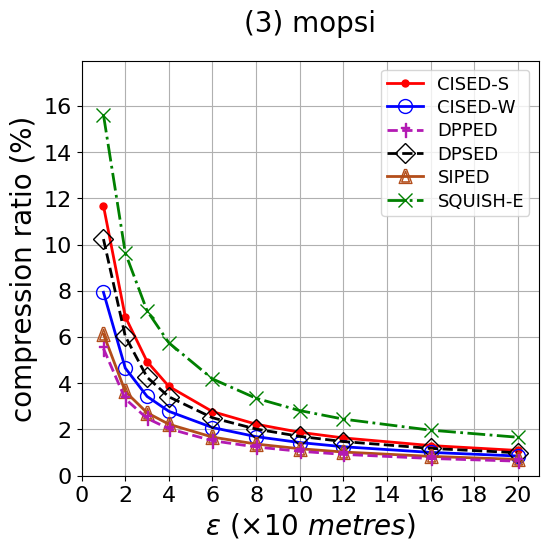
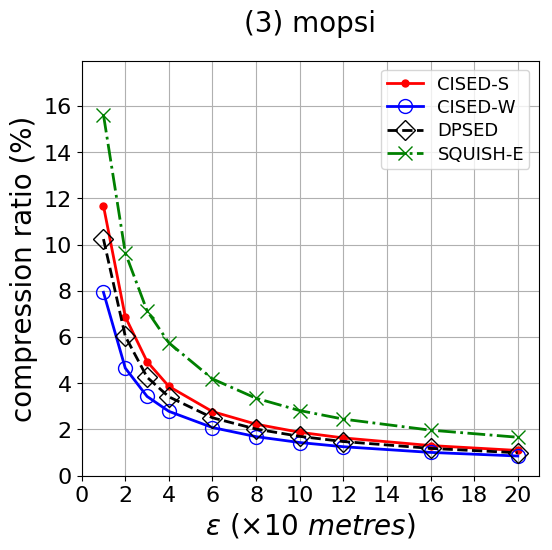
update figures

Changed region(s): [[0.6775, 0.2164, 0.9547, 0.4018], [0.154, 0.5873, 0.9547, 0.8655]]

diff --git a/traj_conei3d/sec-exp.tex b/traj_conei3d/sec-exp.tex
@@ -115,6 +115,20 @@ Here ``R'' denotes our fast regular polygon intersection algorithm \rpia, and ``
 
 \begin{figure*}[tb!]
 \centering
+\includegraphics[scale = 0.290]{Figures/Exp-CR-epsilon-ped-service.png}\hspace{1ex}
+\includegraphics[scale = 0.290]{Figures/Exp-CR-epsilon-ped-geolife.png}\hspace{1ex}
+\includegraphics[scale = 0.290]{Figures/Exp-CR-epsilon-ped-mopsi.png}\hspace{1ex}
+\includegraphics[scale = 0.290]{Figures/Exp-CR-epsilon-ped-private.png}
+%\vspace{-1ex}
+\caption{\small Evaluation of compression ratios: fixed with $m=16$ and varying
+  error bound $\epsilon$(compare ped with sed).}
+\label{fig:cr-m16-ped}
+%\vspace{-1.0ex}
+\end{figure*}
+
+
+\begin{figure*}[tb!]
+\centering
 \includegraphics[scale = 0.290]{Figures/Exp-opt-CR-epsilon-service.png}\hspace{1ex}
 \includegraphics[scale = 0.290]{Figures/Exp-opt-CR-epsilon-geolife.png}\hspace{1ex}
 \includegraphics[scale = 0.290]{Figures/Exp-opt-CR-epsilon-mopsi.png}\hspace{1ex}
@@ -215,6 +229,15 @@ The results are reported in Figure~\ref{fig:cr-size}.
 
 \textcolor{red}{Jiangjh: four lines: DP-PED, DP-SED, CISED, Sleeve}
 
+ Given the same error bound $\epsilon$, the compression ratios of algorithms using \ped are obviously better
+than using \sed.
+More specifically, the compression ratios of algorithms \dpa 
+using \ped are on average ($47.1\%$, $55.5\%$, $60.7\%$, $44.7\%$) of algorithm \dpa using \sed and
+the compression ratio of algorithm \cist is on average
+($45.4\%$, $54.5\%$, $60.1\%$, $43.0\%$) of algorithm \cia  on datasets (\sercar, \geolife, \mopsi, \pricar), respectively.
+	
+
+
 
 %%%%%%%%%%%%%%%%%%%%%%%%%%%%%%%%%%%%%%%%%%%%%%%%%%%%%%%%%%%%%%%%%%%%%%%%%%%%%%
 \subsubsection{Evaluation of Average Errors}
@@ -250,6 +273,21 @@ Here ``R'' denotes our fast regular polygon intersection algorithm \rpia, and ``
 	\label{fig:ae-m16}
 	%\vspace{-1ex}
 \end{figure*}
+
+\begin{figure*}[tb]
+	\centering
+	\includegraphics[scale = 0.2900]{Figures/Exp-error-epsilon-ped-service.png}\hspace{1ex}
+	\includegraphics[scale = 0.2900]{Figures/Exp-error-epsilon-ped-geolife.png}\hspace{1ex}
+	\includegraphics[scale = 0.2900]{Figures/Exp-error-epsilon-ped-mopsi.png}\hspace{1ex}
+	\includegraphics[scale = 0.2900]{Figures/Exp-error-epsilon-ped-private.png}
+	%\vspace{-1ex}
+	\caption{\small Evaluation of average errors: fixed with $m=16$ and varying
+    error bound $\epsilon$(compare ped with sed).}
+	\label{fig:ae-m16-ped}
+	%\vspace{-1ex}
+\end{figure*}
+
+
 
 \begin{figure*}[tb]
 	\centering
@@ -364,6 +402,15 @@ The results are reported in Figure~\ref{fig:ae-size}.
 
 \textcolor{red}{Jiangjh: four lines: DP-PED, DP-SED, CISED, Sleeve}
 
+Given the same error bound $\epsilon$, the average errors of algorithms using \sed are a bit larger than using \ped. 
+
+The average errors of \dpa  using \ped is on average
+($76.7\%$, $77.6\%$, $79.7\%$, $63.0\%$) of \dpa  using \sed, and  the average
+errors of algorithm \cia  is on average
+($97.5\%$, $78.1\%$, $92.4\%$, $74.2\%$) of algorithm \cist on datasets (\sercar, \geolife, \mopsi, \pricar), respectively.
+	
+
+
 
 
 
@@ -430,6 +477,8 @@ polygon intersections. For all $m$, the execution time of algorithms \cpia and
 
 
 
+
+
 \begin{figure*}[tb!]
 \centering
 \includegraphics[scale = 0.290]{Figures/Exp-time-epsilon-service.png}\hspace{1ex}
@@ -441,6 +490,21 @@ polygon intersections. For all $m$, the execution time of algorithms \cpia and
 \label{fig:time-epsilon}
 %\vspace{-1ex}
 \end{figure*}
+
+\begin{figure*}[tb!]
+\centering
+\includegraphics[scale = 0.290]{Figures/Exp-time-epsilon-ped-service.png}\hspace{1ex}
+\includegraphics[scale = 0.290]{Figures/Exp-time-epsilon-ped-geolife.png}\hspace{1ex}
+\includegraphics[scale = 0.290]{Figures/Exp-time-epsilon-ped-mopsi.png}\hspace{1ex}
+\includegraphics[scale = 0.290]{Figures/Exp-time-epsilon-ped-private.png}
+%\vspace{-1ex}
+\caption{\small Evaluation of running time: fixed with $m=16$ and varying error
+  bounds $\epsilon$(compare ped with sed).}
+\label{fig:time-epsilon-ped}
+%\vspace{-1ex}
+\end{figure*}
+
+
 
 \begin{figure*}[tb!]
 \centering
@@ -528,8 +592,13 @@ This is consistent with their time complexity analyses.
 
 
 \stitle{Exp-3.5: Impacts of distance metrics on efficiency (\ped vs \sed)}.
-
 \textcolor{red}{Jiangjh: four lines: DP-PED, DP-SED, CISED, Sleeve}
+Given the same error bound $\epsilon$, the running time of \dpa  using \ped is on average
+($24.3\%$, $119.9\%$, $23.4\%$, $91.3\%$) of \dpa  using \sed, and  the running
+time of algorithm \cia  is on average ($7.0\%$, $36.3\%$, $19.9\%$, $69.2\%$)
+of algorithm \cist on datasets (\sercar, \geolife, \mopsi, \pricar), respectively.
+	
+
 
 
 %%%%%%%%%%%%%%%%%%%%%%%%%%%%%%%%%%%%%%%%%%%%%%%%%%%%%%%%%%%%%%%%%%%%%%%%%%%%%%
